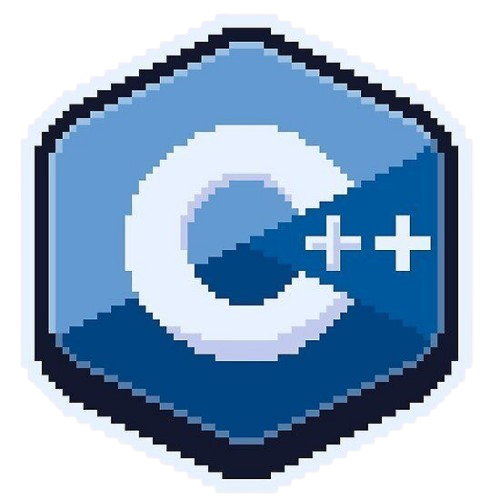
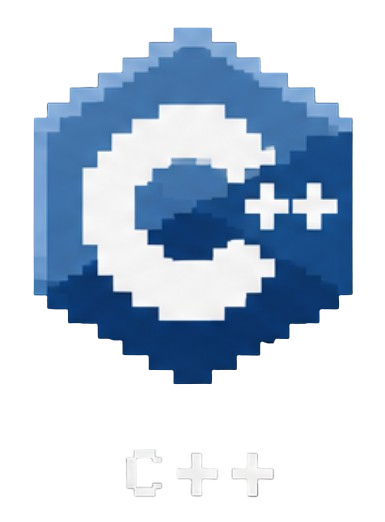
added tools pngs

diff --git a/src/components/folders/Tools.jsx b/src/components/folders/Tools.jsx
@@ -15,11 +15,11 @@ const Tools = ({ onClose }) => {
         <div>
           <h3 className="text-md font-bold mb-3 text-[#351303]">Frontend</h3>
           <div className="flex gap-4 flex-wrap">
-            <img src="" alt="html" className="w-10 h-10 object-contain"/>
-            <img src="" alt="css" className="w-10 h-10 object-contain"/>
-            <img src="" alt="js" className="w-10 h-10 object-contain"/>
-            <img src="" alt="react" className="w-10 h-10 object-contain"/>
-            <img src="" alt="tailwind" className="w-10 h-10 object-contain"/>
+            <img src="tools/html.png" alt="html" className="w-14 h-auto object-contain"/>
+            <img src="tools/css.png" alt="css" className="w-14 h-auto object-contain"/>
+            <img src="tools/js.png" alt="js" className="w-14 h-auto object-contain"/>
+            <img src="tools/react.png" alt="react" className="w-14 h-auto object-contain"/>
+            <img src="tools/tailwind.png" alt="tailwind" className="w-14 h-auto object-contain"/>
           </div>
         </div>
 
@@ -27,10 +27,10 @@ const Tools = ({ onClose }) => {
         <div>
           <h3 className="text-md font-bold mb-3 text-[#351303]">Backend & Database</h3>
           <div className="flex gap-4 flex-wrap">
-            <img src="" alt="mongodb" className="w-10 h-10 object-contain"/>
-            <img src="" alt="sql" className="w-10 h-10 object-contain"/>
-            <img src="" alt="nodejs" className="w-10 h-10 object-contain"/>
-            <img src="" alt="aws" className="w-10 h-10 object-contain"/>
+            <img src="tools/mongodb.png" alt="mongodb" className="w-14 h-auto object-contain"/>
+            <img src="tools/sql.png" alt="sql" className="w-14 h-auto object-contain"/>
+            <img src="tools/nodejs.png" alt="nodejs" className="w-14 h-auto object-contain"/>
+            <img src="tools/aws.png" alt="aws" className="w-14 h-auto object-contain"/>
           </div>
         </div>
 
@@ -38,12 +38,12 @@ const Tools = ({ onClose }) => {
         <div>
           <h3 className="text-md font-bold mb-3 text-[#351303]">Tools & Platforms</h3>
           <div className="flex gap-4 flex-wrap">
-            <img src="" alt="vercel" className="w-10 h-10 object-contain"/>
-            <img src="" alt="render" className="w-10 h-10 object-contain"/>
-            <img src="/tools/cpp.png" alt="cpp" className="w-10 h-10 object-contain"/>
-            <img src="/tools/python.png" alt="python" className="w-10 h-10 object-contain"/>
-            <img src="" alt="github" className="w-10 h-10 object-contain"/>
-            <img src="" alt="vscode" className="w-10 h-10 object-contain"/>
+            <img src="tools/vercel.png" alt="vercel" className="w-14 h-auto object-contain"/>
+            <img src="tools/render.png" alt="render" className="w-14 h-auto object-contain"/>
+            <img src="tools/cpp.png" alt="cpp" className="w-14 h-auto object-contain"/>
+            <img src="tools/python.png" alt="python" className="w-14 h-auto object-contain"/>
+            <img src="tools/github.png" alt="github" className="w-14 h-auto object-contain"/>
+            <img src="tools/vscode.png" alt="vscode" className="w-14 h-auto object-contain"/>
           </div>
         </div>
       </div>
